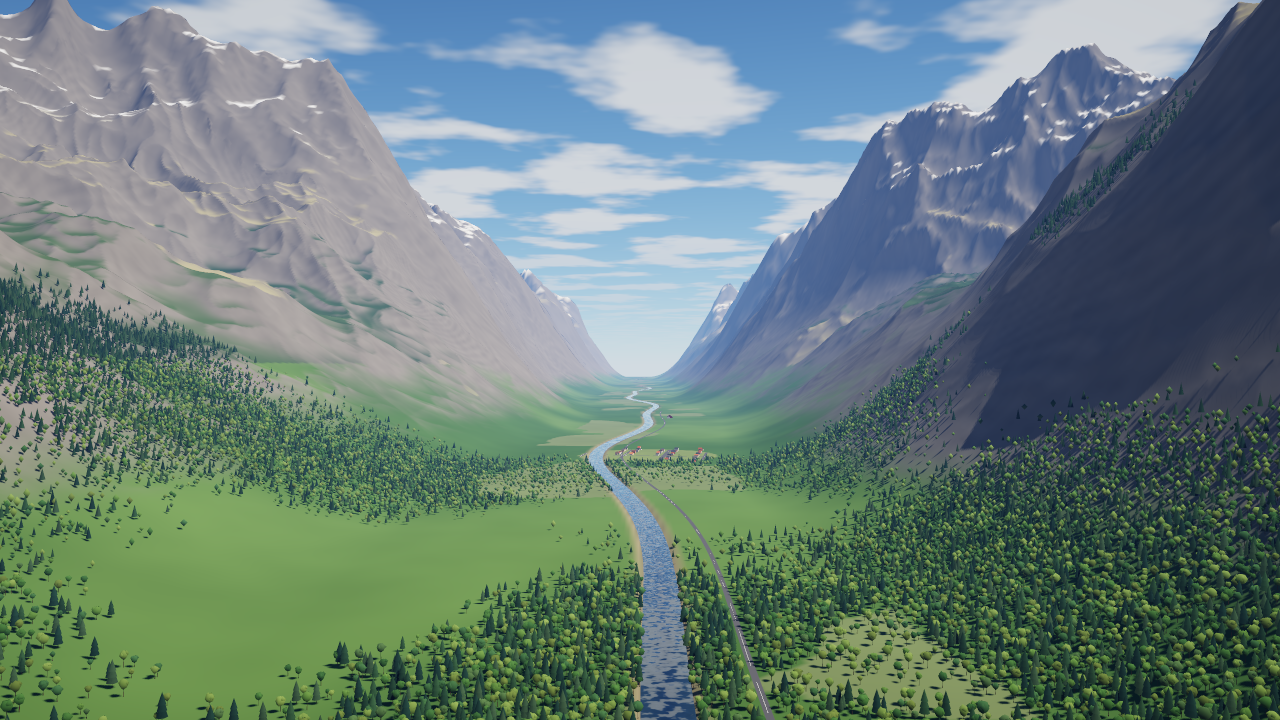
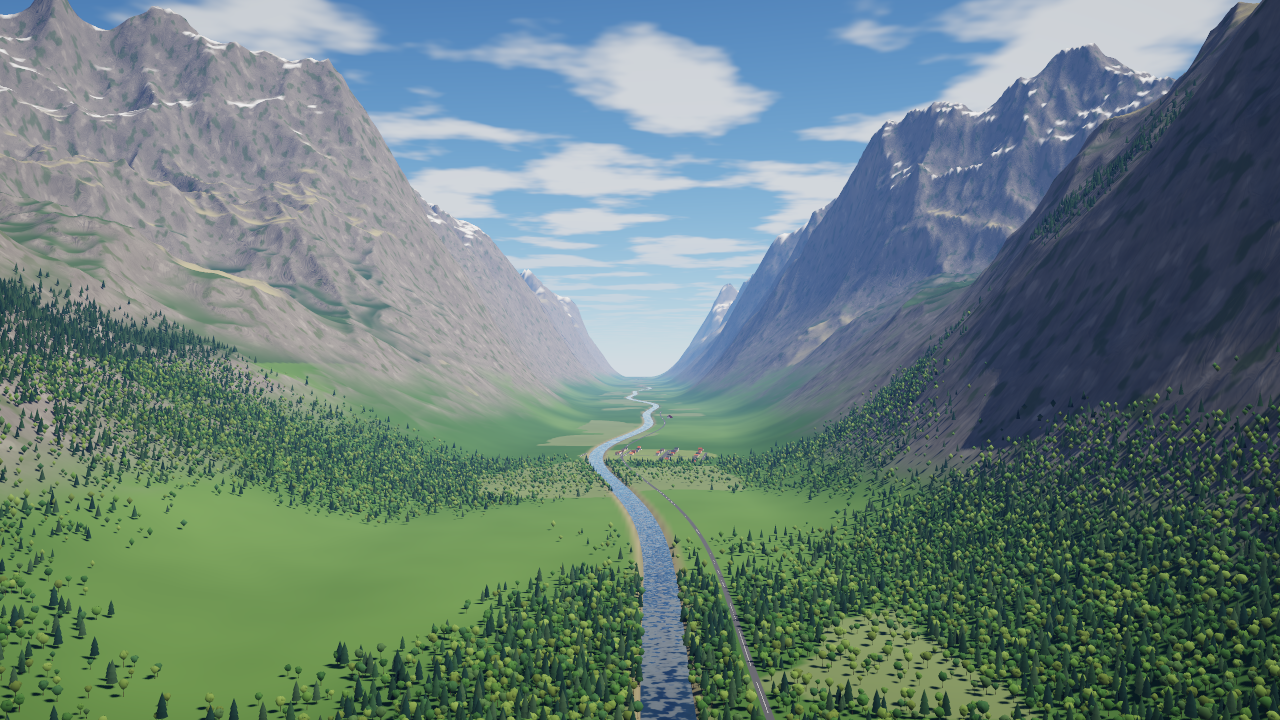
[P1.3] Steep-slope detail: gullies, rock tones, scrub and scree per pixel (CPU and Metal)
Claude-Session: https://claude.ai/code/session_01LuDJ4arcj2AiLQbMi9mk9u

diff --git a/Packages/SkyforgeKit/Sources/SFPreview/PreviewRenderer.swift b/Packages/SkyforgeKit/Sources/SFPreview/PreviewRenderer.swift
@@ -106,6 +106,41 @@ public enum PreviewRenderer {
                         let gy = Float(groundNoise.fbm(wx / 2.2, (wy + e) / 2.2, octaves: 2) - groundNoise.fbm(wx / 2.2, (wy - e) / 2.2, octaves: 2))
                         n = simd_normalize(n + SIMD3(-gx, -gy, 0) * (0.12 * fade))   // as Metal; low sun turned 0.3 into blotches
                     }
+                    if mat == Material.terrain.rawValue && !imagery && n.z < 0.9 {
+                        // Steep ground: rock texture and fall-line gullies per pixel, each octave faded by
+                        // pixel footprint rather than distance, so big slopes keep detail kilometres away
+                        // (art review: the shaded valley wall in (f) was one flat tone).
+                        let steep = Float(smoothstep(0.9, 0.7, Double(n.z)))
+                        let fpx = dist / focal
+                        let wx = Double(p.x) + origin.x, wy = Double(p.y) + origin.y
+                        let h = SIMD2<Float>(n.x, n.y), hl = (h * h).sum().squareRoot()
+                        let fall = hl > 1e-4 ? h / hl : SIMD2<Float>(1, 0), perp = SIMD2<Float>(-fall.y, fall.x)
+                        let along = Double(fall.x) * wx + Double(fall.y) * wy, across = Double(perp.x) * wx + Double(perp.y) * wy
+                        func w(_ cell: Float) -> Float { max(0, min(1, 1 - fpx * 2.5 / cell)) }
+                        let gw = w(14) * steep
+                        if gw > 0 {
+                            let e = 1.5
+                            let g = Float(groundNoise.fbm(across / 14 + 51, along / 70, octaves: 2))
+                            let gp = Float(groundNoise.fbm((across + e) / 14 + 51, along / 70, octaves: 2))
+                            let dg = (gp - g) / Float(e) * 14
+                            let tilt = perp * (-dg * 0.35 * gw)
+                            n = simd_normalize(n + SIMD3(tilt.x, tilt.y, 0))
+                            albedo *= 1 - 0.28 * max(0, -g) * gw            // darker gully floors (also in shade)
+                        }
+                        let big = Float(groundNoise.fbm(wx / 60 - 13, wy / 60 + 29, octaves: 2)) * w(60)
+                        let small = Float(groundNoise.fbm(wx / 9 + 3, wy / 9 - 7, octaves: 2)) * w(9)
+                        albedo *= 1 + (0.22 * big + 0.10 * small) * steep
+                        // Scrub patches and pale scree on dark (non-snow) slopes: albedo variety reads even
+                        // where the slope is in shadow and normal detail cannot.
+                        let luma = albedo.x * 0.3 + albedo.y * 0.6 + albedo.z * 0.1
+                        if luma < 0.3 {
+                            let patch = Float(groundNoise.fbm(wx / 45 + 71, wy / 45 - 37, octaves: 3)) * w(45)
+                            let scrub = Float(smoothstep(0.08, 0.32, Double(patch))) * steep
+                            let scree = Float(smoothstep(-0.2, -0.42, Double(patch))) * steep
+                            albedo = albedo + (SIMD3<Float>(0.050, 0.072, 0.030) - albedo) * (scrub * 0.75)
+                            albedo *= 1 + 0.35 * scree
+                        }
+                    }
                     var colour: SIMD3<Float>
                     let ndl = fdot(n, toSun)
                     let vis = toSun.z > -0.05 ? shadow.visibility(p, normalDotLight: max(0, ndl)) : 0

diff --git a/Packages/SkyforgeKit/Sources/SFRender/Shaders/WorldShaders.swift b/Packages/SkyforgeKit/Sources/SFRender/Shaders/WorldShaders.swift
@@ -302,6 +302,33 @@ public enum WorldShaders {
             float gy = groundNoise(w + float2(0, e), 2.0) - groundNoise(w - float2(0, e), 2.0);
             n = normalize(n + float3(-gx, -gy, 0.0) * (0.12 * wFine * fade));
         }
+        if (m == 7.0 && in.material == 7.0 && n.z < 0.9) {
+            // Steep ground: fall-line gullies, rock tone variation, scrub and scree (as SFPreview), each
+            // octave faded by pixel footprint so big slopes keep detail far away.
+            float steep = smoothstep(0.9, 0.7, n.z);
+            float2 w = fieldW;      // true region metres: rotated gully coordinates must not jump at the 4 km wrap
+            float2 hz = n.xy; float hl = length(hz);
+            float2 fall = hl > 1e-4 ? hz / hl : float2(1, 0), perp = float2(-fall.y, fall.x);
+            float along = dot(fall, w), across = dot(perp, w);
+            float gw = saturate(1.0 - fieldFp * 2.5 / 16.0) * steep;
+            if (gw > 0.0) {
+                float g = groundNoise(float2(across, along * 0.2) + 51.0, 16.0);
+                float gp = groundNoise(float2(across + 1.5, along * 0.2) + 51.0, 16.0);
+                float dg = (gp - g) / 1.5 * 16.0;
+                n = normalize(n + float3(perp * (-dg * 0.35 * gw), 0.0));
+                albedo *= 1.0 - 0.28 * max(0.0, -g) * gw;
+            }
+            float big = groundNoise(w - 13.0, 64.0) * saturate(1.0 - fieldFp * 2.5 / 64.0);
+            float small = groundNoise(w + 3.0, 8.0) * saturate(1.0 - fieldFp * 2.5 / 8.0);
+            albedo *= 1.0 + (0.22 * big + 0.10 * small) * steep;
+            if (dot(albedo, float3(0.3, 0.6, 0.1)) < 0.3) {
+                float patch = groundNoise(w + 71.0, 32.0) * saturate(1.0 - fieldFp * 2.5 / 32.0);
+                float scrub = smoothstep(0.08, 0.32, patch) * steep;
+                float scree = smoothstep(-0.2, -0.42, patch) * steep;
+                albedo = mix(albedo, float3(0.050, 0.072, 0.030), scrub * 0.75);
+                albedo *= 1.0 + 0.35 * scree;
+            }
+        }
         float ndl = dot(n, toSun);
         float vis = toSun.z > -0.05 ? shadowVisibility(u, sm, in.rel, n, dist, max(0.0f, ndl)) : 0.0;
         if (u.clouds.shape.z > 0.0 && toSun.z > 0.05 && vis > 0.0) {

diff --git a/docs/VISUAL_LOG.md b/docs/VISUAL_LOG.md
@@ -154,3 +154,4 @@ Open defects (next passes): near-field ground is flat colour (needs detail textu
 - a 5.67, d 5.50, e 5.50, f 5.83, j 5.00 → **5.50** (was 5.40). River landed fully; aircraft normals partly (no visible glint, wings flat); smaller parcels multiplied the wide blurred hedgerow bands into a "tartan" in (e), with a lime parcel in (d), and (j)'s corridor stayed uniform.
 - Fix: `FieldPattern` draws parcels and hedgerows per pixel in both renderers (CPU preview and the Metal world shader, an operation-for-operation mirror on integer hashes, checked GPU vs CPU in CI). The terrain mesh now carries only a per-vertex field weight (snorm8 in the packed normal's w on Metal). Hedgerows are 2.4 m dark strips with gaps, anti-aliased by pixel footprint and fading to their area average when thinner than a pixel. Crops are seven muted tones (pasture, hay, ripe wheat, ploughed soil, stubble, dark pasture, fallow) as ratios to the grassland colour; no lime.
 - (j): the mown airfield zone shrank from ±150 m with 500 m extensions to ±90 m with 240 m beyond each end (runway strip and end safety area), so the final approach crosses a field patchwork. Previews re-rendered.
+- Steep ground (f): per-pixel fall-line gullies, rock tone variation, scrub patches and pale scree, each octave faded by pixel footprint instead of a fixed 700 m distance, so the shaded valley wall carries detail; mirrored in the Metal world shader.

diff --git a/docs/VERIFICATION_LOG.md b/docs/VERIFICATION_LOG.md
@@ -102,3 +102,4 @@ Every gate run, CI run and manual verification. Newest at the bottom.
 2026-11-08T15:47:33Z compaction; last commit a037dcf
 - 2026-11-08T15:50:31Z gate fast on Linux x86_64: PASS (HEAD a037dcf)
 - 2026-11-08T16:12:03Z gate fast on Linux x86_64: PASS (HEAD 6fdcf2d)
+- 2026-11-08T16:17:51Z gate fast on Linux x86_64: PASS (HEAD 4312654)
